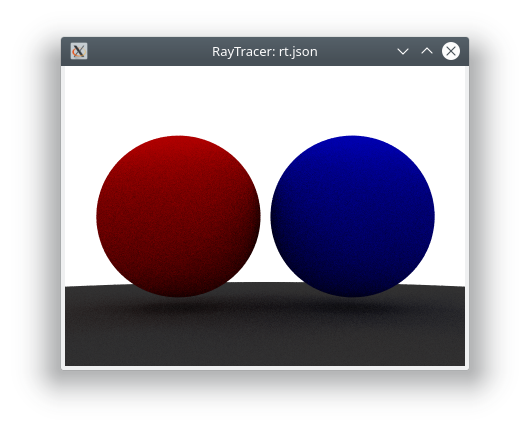
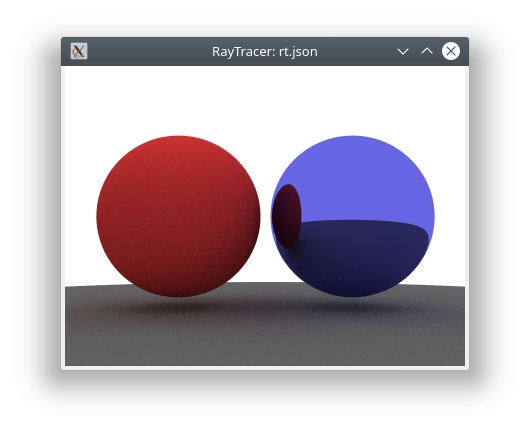
Clicking on GUI window will reload json and re-render image

diff --git a/src/RtApp.cpp b/src/RtApp.cpp
@@ -25,8 +25,9 @@ class RtApp: public wxApp
 {
     
     wxFrame *frame;
-    Display * drawPane;
+    Display *drawPane;
 
+    std::string config_filename;
     Rt* rt;
 
     unsigned int Nx;
@@ -36,33 +37,15 @@ class RtApp: public wxApp
 public:
     bool OnInit()
     {
+        rt = NULL;
+
         // get config file from cmd line
         wxCmdLineParser parser(cmdLineDesc,argc,argv);
         if(parser.Parse())
             return false;
-        std::string config_filename = parser.GetParam().ToStdString();
+        config_filename = parser.GetParam().ToStdString();
 
-        Json::Value rtConfig;
-        try
-        {
-            // read config file into json object
-            std::ifstream configFile(config_filename);
-            if(!configFile.is_open())
-                throw std::runtime_error("Error opening config file " + config_filename);
-
-            configFile >> rtConfig;
-            configFile.close();
-
-            //parse config to get inmage size
-            Nx = rtConfig["image"]["width"].asUInt();
-            Ny = rtConfig["image"]["height"].asUInt();
-        }
-        catch(const std::exception& e)
-        {
-            std::cerr << "Error Parsing " << config_filename << std::endl;            
-            std::cerr << e.what() << '\n';
-            return false;
-        }
+        if(!configImage()) return false;
 
         try
         {        
@@ -71,18 +54,11 @@ public:
             
             wxBoxSizer* sizer = new wxBoxSizer(wxHORIZONTAL);
 
-            rt = new Rt(rtConfig);
-            if(!rt->isValid())
-            {
-                std::cerr << "Error initializing RayTracer" << std::endl;            
-                return false;
-            }
-
             long style = wxDEFAULT_FRAME_STYLE; // ^ wxRESIZE_BORDER;
             frame = new wxFrame(NULL, wxID_ANY, wxT("RayTracer: " + config_filename), wxPoint(50,50), wxSize(Nx,Ny),style);
 
             drawPane = new Display( frame, Nx, Ny);
-            //drawPane->Bind(wxEVT_LEFT_DOWN, &RtApp::OnClick, this);
+            drawPane->Bind(wxEVT_LEFT_DOWN, &RtApp::OnClick, this);
 
             sizer->Add(drawPane, 1, wxEXPAND);
             frame->SetSizer(sizer);
@@ -106,15 +82,56 @@ public:
         return 0;
     }
 
+    bool configImage()
+    {
+        Json::Value rtConfig;
+        try
+        {
+            // read config file into json object
+            std::ifstream configFile(config_filename);
+            if(!configFile.is_open())
+                throw std::runtime_error("Error opening config file " + config_filename);
+
+            configFile >> rtConfig;
+            configFile.close();
+
+            //parse config to get inmage size
+            Nx = rtConfig["image"]["width"].asUInt();
+            Ny = rtConfig["image"]["height"].asUInt();
+        }
+        catch(const std::exception& e)
+        {
+            std::cerr << "Error Parsing " << config_filename << std::endl;            
+            std::cerr << e.what() << '\n';
+            return false;
+        }
+
+        if(rt) delete rt;
+        rt = new Rt(rtConfig);
+        if(!rt->isValid())
+        {
+            std::cerr << "Error initializing RayTracer" << std::endl;            
+            return false;
+        }
+        return true;
+    }
+
+
     void updateImage()
     {
+
+        std::cout << "Rendering image...";
+        fflush(stdout);
         rt->render();
         drawPane->updateImage( rt->getImage());        
+        std::cout << " Complete" << std::endl;            
+
     }
 
 
     void OnClick(wxMouseEvent& /*event*/)
     {
+        configImage();
         updateImage();
     }
 

diff --git a/src/ObjectList.cpp b/src/ObjectList.cpp
@@ -4,7 +4,7 @@
 #include <iostream>
 
 ObjectList::ObjectList(const Json::Value& config_scene)
-: valid(false)
+: valid(false), backgroundColor(1,1,1)
 {
 
     // example config:
@@ -32,7 +32,11 @@ ObjectList::ObjectList(const Json::Value& config_scene)
         for(unsigned int no=0;no<config_scene.size();no++)
         {
             const Json::Value& obj = config_scene[no];
-            if(obj["type"].compare("sphere")==0)
+            if(obj["type"].compare("background")==0)
+            {
+                backgroundColor = Color(obj["color"]);
+            }
+            else if(obj["type"].compare("sphere")==0)
             {            
                 emplace_back(new Sphere(obj));
             }

diff --git a/src/Rt.cpp b/src/Rt.cpp
@@ -90,8 +90,6 @@ void Rt::render()
 
 Color Rt::getColor(const Ray& r, const ObjectList& world, unsigned int depth)
 {
-    Color backgroundColor = WHITE;
-
     Hit hit;
     Color c;
     if(world.hit(r,hit))
@@ -107,5 +105,5 @@ Color Rt::getColor(const Ray& r, const ObjectList& world, unsigned int depth)
             return albedo;            
     }
 
-    return backgroundColor;
+    return world.backgroundColor;
 }

diff --git a/src/ObjectList.h b/src/ObjectList.h
@@ -11,6 +11,7 @@ class ObjectList: public std::list<std::unique_ptr<Object> >
 
     public:
     ObjectList(const Json::Value& config_scene);
+    Color backgroundColor;
     
     bool hit(const Ray& ray, Hit& hit) const;
 
